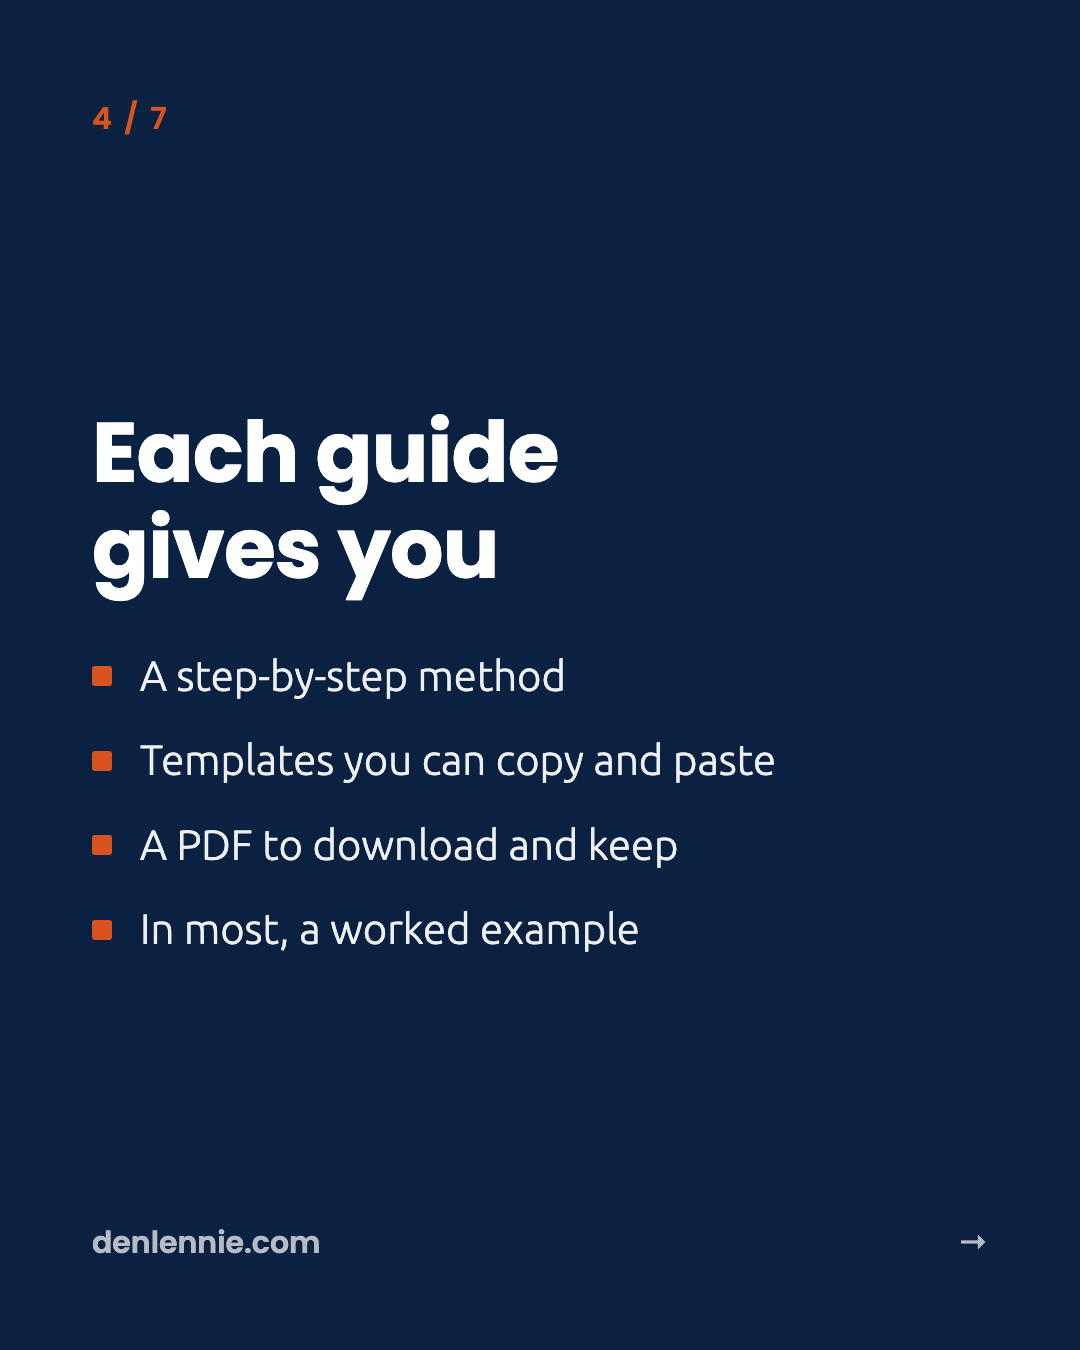
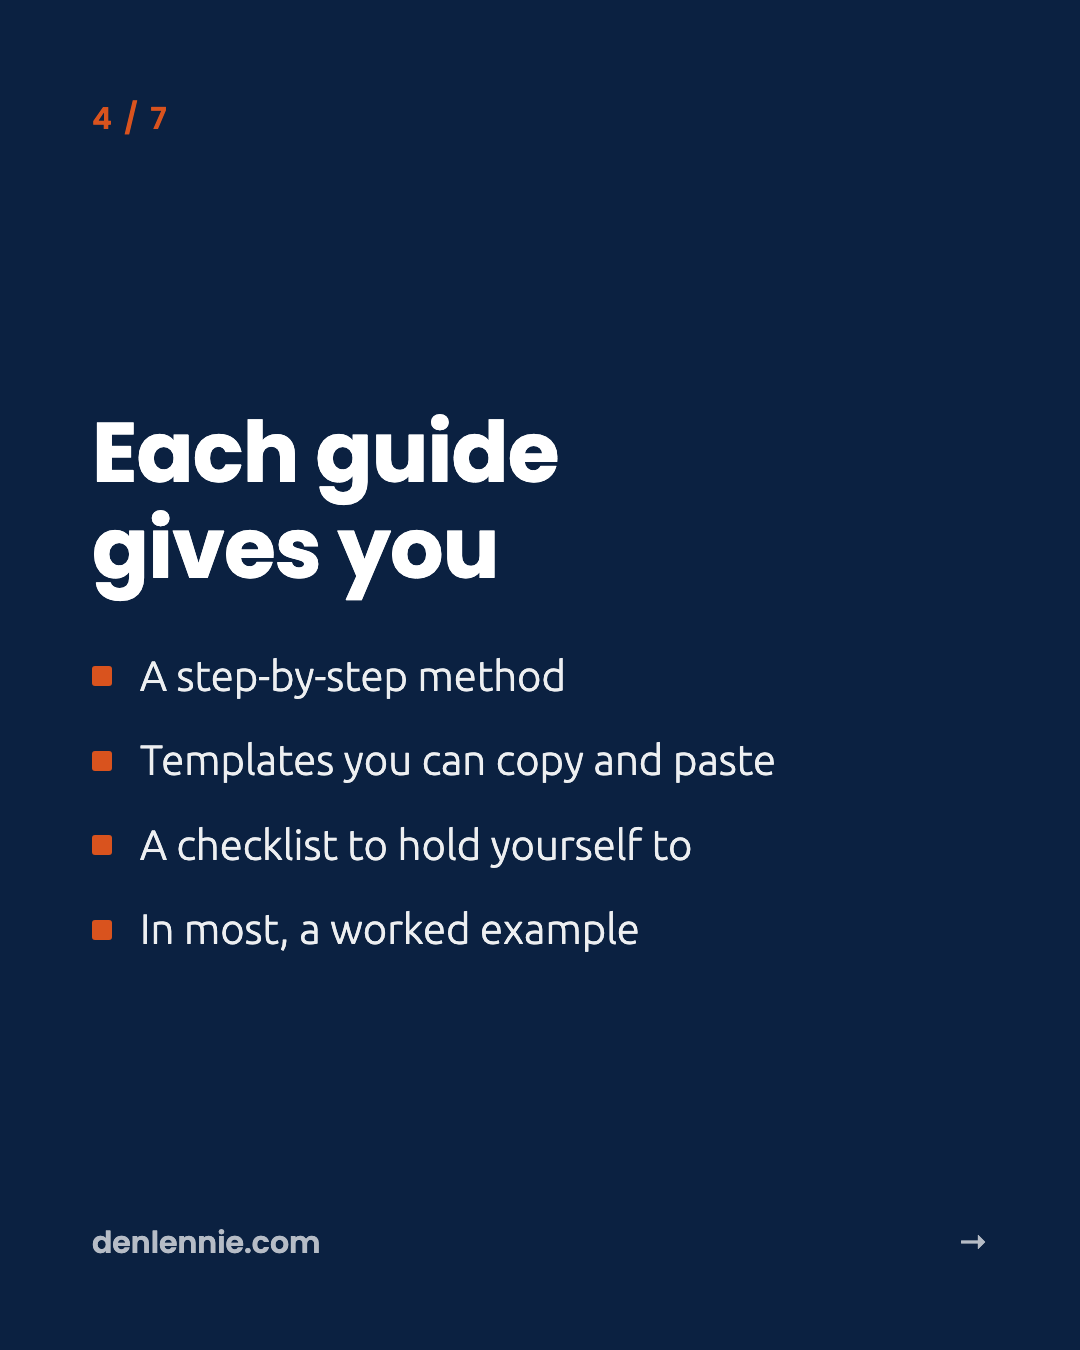
Field Guides: remove the 'Download as a PDF' links (James's advice via Den, 9 Oct 2026)
Readers use the guides on the site. llms.txt no longer says 'Downloadable PDF'. Carousel slide 4 now reads 'A checklist to hold yourself to'. Print styling stays, so a printed page still carries the branding.

Changed region(s): [[0.1528, 0.5911, 0.6417, 0.6533]]

diff --git a/qualify-before-you-pitch.html b/qualify-before-you-pitch.html
@@ -150,7 +150,6 @@ table.quote tr.total td{font-family:"Poppins",sans-serif; font-weight:600; color
 <p class="crumb"><a href="/field-guides">Field Guides</a> / Sales</p>
 <h1>How to qualify a video lead before you pitch</h1>
 <p class="lede">Don't send the showreel and wait. Before any number goes on the table, find out what the video needs to do for the business, what it costs them if it doesn't happen, who decides, when it's needed and what budget is set aside. A get-a-quote form does the first round of that for you, five questions on the first call do the rest, and then you quote the outcome instead of the footage.</p>
-<p class="download"><a href="/qualify-before-you-pitch.pdf">Download this guide as a PDF</a></p>
 <h2>Why does sending the showreel and waiting lose the job?</h2>
 <p>Sending the showreel and waiting loses because it leaves the prospect comparing reels and prices, with nothing to tell your work apart from the next reel in their inbox. You're quoting blind, so you compete on price and often pitch the wrong thing.</p>
 <p>I see the same instinct in owners working very different markets: one approaching a single target company, one working warm leads, one going after jewellery wholesalers. Each time, the first move was to send the portfolio and wait. The coaching was the same in all three: break the frame, ask a diagnostic question first, and find out what they're actually trying to solve.</p>

diff --git a/first-hire.html b/first-hire.html
@@ -152,7 +152,6 @@ table.quote tr.total td{font-family:"Poppins",sans-serif; font-weight:600; color
 <p class="crumb"><a href="/field-guides">Field Guides</a> / Team</p>
 <h1>Making your first hire in a video business: the fear, and the maths</h1>
 <p class="lede">The fear of the first hire is always the same: what if I hire someone and then the work stops? It's a fair question, but staying solo has its own cost: your income stalls at the limit of your own hours, year after year. Audit a week to find the hours that shouldn't be yours, check the profit can carry the hire through a trial period, start part-time or with a contractor, and hire to staff once contractor fees start to look like a salary.</p>
-<p class="download"><a href="/first-hire.pdf">Download this guide as a PDF</a></p>
 <h2>Why does the first hire feel so dangerous?</h2>
 <p>The first hire feels dangerous because a wage is a cost every month, and the work that pays for it isn't guaranteed.</p>
 <p>I know this one from the inside. When I ran my production company in the early 2010s, turnover sat at about £250,000 to £260,000 a year, roughly $500,000 Australian, and I finished within about ten grand of that number every year. It took me a while to see why. I was terrified of hiring anybody, and I avoided it for three years.</p>

diff --git a/content-vs-outreach.html b/content-vs-outreach.html
@@ -155,7 +155,6 @@ table.quote.split th:last-child{text-align:right;}
 <h1>Content or outreach: where to spend your marketing time</h1>
 
 <p class="lede">Many of the owners I coach over-engineer their content and under-execute their outreach: hours on the bio and the posting plan, minutes on contacting people who could hire them. If you spent more hours on content this week than the number of people you contacted, outreach is your problem. Pick one channel, run a seven-day outreach test, and judge it on the conversations it starts.</p>
-<p class="download"><a href="/content-vs-outreach.pdf">Download this guide as a PDF</a></p>
 <h2>Why do video business owners spend hours on content and minutes on outreach?</h2>
 <p>Video business owners spend hours on content because polishing a profile feels productive and safe, while contacting someone who could hire you feels exposing. The safe work is easier to start, so it gets the hours.</p>
 <p>I see it across the owners I coach. One spent hours on an Instagram bio. Another went back and forth on a LinkedIn page strategy. A third kept debating between LinkedIn connection approaches instead of trying one. The coaching was the same every time: pick one, execute, adjust from the data.</p>

diff --git a/niche-paralysis.html b/niche-paralysis.html
@@ -154,7 +154,6 @@ table.audit td{padding:.45rem .6rem; border-bottom:1px solid rgba(11,33,65,.12);
 
 <h1>How to choose a niche for your video business</h1>
 <p class="lede">You don't have a lead problem, you have a "who am I for" problem. Your niche is usually already sitting in your own numbers: the sector where your profitable, repeat work from the last twelve months clusters, chosen on fit and proof, not on imagined budget. Write it as one sentence and test it with the people it describes before you change a word on your website.</p>
-<p class="download"><a href="/niche-paralysis.pdf">Download this guide as a PDF</a></p>
 <h2>Why does "I need more leads" turn out to be a "who am I for" problem?</h2>
 <p>"I need more leads" is the symptom most owners report, and the cause usually sits upstream: nobody has decided who the business is for, so no message lands with anyone in particular. In my client avatar workshop it's the example objective on the slide: "We just need more leads."</p>
 <p>You can't market with force when you haven't decided who you're for, because nobody can see themselves in a message trying to speak to everyone. The indecision upstream caps everything downstream.</p>

diff --git a/better-systems.html b/better-systems.html
@@ -151,7 +151,6 @@ table.quote tr.total td{font-family:"Poppins",sans-serif; font-weight:600; color
 
 <h1>"I need better systems in my business": where to actually start</h1>
 <p class="lede">When an owner says they need better systems, they rarely mean software. They mean everything lives in their head, and they're the person who has to see everything. The fix isn't a new tool or the perfect system. Write down how things are done now, one process at a time, starting with one that keeps breaking. Record yourself doing a task, then turn that recording into steps someone else can run.</p>
-<p class="download"><a href="/better-systems.pdf">Download this guide as a PDF</a></p>
 <h2>Why does everything in the business still run through you?</h2>
 <p>Everything runs through you because the business grew faster than its structure. You went from freelancer to employer, skipped the step where the how gets written down, and became the bottleneck.</p>
 <p>I hear "I just need better systems" on almost every sales call. Then I ask a simple question: if you disappeared tomorrow, would the business fall over? The answer is usually yes. That's the real problem the word "systems" is covering.</p>

diff --git a/twelve-month-audit.html b/twelve-month-audit.html
@@ -157,7 +157,6 @@ table.audit th{font-family:"Poppins",sans-serif; font-weight:600; color:var(--na
 <h1>What should I look at in my last twelve months before I change anything?</h1>
 
 <p class="lede">Before you change your offer, your marketing or your niche, look at where the last twelve months of revenue came from: how many clients, what each spent, what you kept, which work repeated or came by referral, and what each client cost you in time. Then answer the other half: what you're known for and how your last five clients would describe you. Finish with one page that sorts every client against your floor per day: protect and grow the ones above it, and reprice, restructure or let go of the ones below.</p>
-<p class="download"><a href="/twelve-month-audit.pdf">Download this guide as a PDF</a></p>
 
 <h2>Why do owners change direction without looking at the last twelve months?</h2>
 <p>Owners change direction on a feeling because creative businesses lean on what they think and feel, and very little time goes into the data. A twelve-month audit puts the data first, before any new system, offer or marketing plan.</p>

diff --git a/ask-framework.html b/ask-framework.html
@@ -154,7 +154,6 @@ table.slots td{padding:.45rem .6rem; border-bottom:1px solid rgba(11,33,65,.12);
 
 <h1>How do I find out why clients really hire me?</h1>
 <p class="lede">Ask them, and record it. The ASK framework is three to five short recorded conversations with clients who already value you, five questions each, run to capture the words they use about their own problem. Sort those words into triggers, frustrations, outcomes and feelings, and they become your offer, your website copy, your outreach and your proposals.</p>
-<p class="download"><a href="/ask-framework.pdf">Download this guide as a PDF</a></p>
 <h2>Why can't most video business owners say why clients really hire them?</h2>
 <p>Most video business owners write their marketing in production language, because that's the language they think in. Buyers don't. They think about the problem in front of them, in their own words, with their own stakes attached.</p>
 <p>Most video production websites and LinkedIn profiles are about the filmmaker: their passions, their style, what they like. We do this, we do that, "we" all over everything.</p>

diff --git a/client-avatar.html b/client-avatar.html
@@ -157,7 +157,6 @@ table.compare th{font-family:"Poppins",sans-serif; font-weight:600; color:var(--
 
 <p class="lede">A client avatar is one buyer described in enough detail that you can write every quote, email and web page to that person. Build it from a real client you'd happily work for again, in 13 steps that run from who they are, through how they decide and who else has a say, to what would turn them into a fan. Build one for each type of client, starting with the clients your audit shows are worth more of.</p>
 
-<p class="download"><a href="/client-avatar.pdf">Download this guide as a PDF</a></p>
 
 <h2>Why does a pitch about selling more products miss the buyer?</h2>
 <p>A pitch about selling more products misses the buyer whenever sales aren't that buyer's main trigger. Plenty of production companies open with some version of "a video will help you sell more of your products." For a head of communications in a large organisation, getting a policy across to the internal team, or a safety briefing that brings the accident rate down, may matter far more.</p>

diff --git a/what-the-business-needs-to-make.html b/what-the-business-needs-to-make.html
@@ -164,7 +164,6 @@ table.sheet-ex tr.total td{font-family:"Poppins",sans-serif; font-weight:600; co
 
 <p class="lede">Your video business needs to make what your life costs, plus the tax on it, plus what the business costs to run. Cost the life you want and divide it by twelve for your monthly net profit target, add the tax on that profit, then add your monthly running costs with your own wage included: that's the revenue the business has to bring in each month. Then multiply each package's price by how many you can deliver in a month, and if that ceiling sits below the number, no amount of marketing will close the gap.</p>
 
-<p class="download"><a href="/what-the-business-needs-to-make.pdf">Download this guide as a PDF</a></p>
 
 <h2>Why don't most video business owners know what they need to make?</h2>
 <p>Most owners set a revenue target from what sounds good or what they did last year, not from what their life costs, and they never check it against how much work they can physically deliver. Nothing in the business tells them whether the target is reachable.</p>

diff --git a/recurring-revenue.html b/recurring-revenue.html
@@ -152,7 +152,6 @@ table.quote tr.total td{font-family:"Poppins",sans-serif; font-weight:600; color
 <h1>How to move from one-off video projects to recurring revenue</h1>
 
 <p class="lede">Project income and recurring income aren't the same business with different invoices. They're different businesses. The move is to turn a deliverable you already make into a monthly system: package it so the client never has to think about content, price it on a real cost-of-delivery model so it's profitable at the volume you're committing to, and offer it first to a client who already buys it from you. Add one recurring client, then another, and the floor under your month rises.</p>
-<p class="download"><a href="/recurring-revenue.pdf">Download this guide as a PDF</a></p>
 
 <h2>Why does every month start at zero when the work is project-based?</h2>
 <p>Project work resets every month because a project ends the day it's delivered, and nothing about it carries forward. The biggest, best project you've ever done still ends, and the day it ends you're back to hunting.</p>

diff --git a/den-lennie-books.html b/den-lennie-books.html
@@ -236,7 +236,6 @@ table.compare th{font-family:"Poppins",sans-serif; font-weight:600; color:var(--
 
 <p class="lede">Den Lennie has written five books for video business owners over more than a decade. The current one is <em>The S.C.A.L.E. Method</em> (2026), the framework behind his coaching. His first was <em>Business for Filmmakers</em> (2014). In between sit <em>30 Lies You Tell Yourself About Growing a Video Business</em>, <em>A Filmmaker's Guide to Budgets and Quotes</em> and <em>Marketing for Filmmakers Vol III</em>. <em>The S.C.A.L.E. Method</em> is at denlennie.com/book and the four earlier titles are on Amazon.</p>
 
-<p class="download"><a href="/den-lennie-books.pdf">Download this page as a PDF</a></p>
 
 <h2>What are the five books Den Lennie has written?</h2>
 <p>The five books Den Lennie has written are <em>The S.C.A.L.E. Method</em>, <em>30 Lies You Tell Yourself About Growing a Video Business</em>, <em>A Filmmaker's Guide to Budgets and Quotes</em>, <em>Marketing for Filmmakers Vol III</em> and <em>Business for Filmmakers</em>.</p>

diff --git a/imposter-syndrome.html b/imposter-syndrome.html
@@ -153,7 +153,6 @@ table.quote tr.total td{font-family:"Poppins",sans-serif; font-weight:600; color
 
 <p class="lede">Many of the tactical questions video business owners ask ("is my price right?", "am I good enough for this client?") are a request for reassurance dressed up as a practical problem. Before you go looking for another tactic, check whether you have a skills gap (no method yet) or a confidence gap (you have the method and the track record, and still want permission). A confidence gap is answered with evidence: a written file of the projects you've delivered, what clients said in their own words, repeat work, referrals and your numbers.</p>
 
-<p class="download"><a href="/imposter-syndrome.pdf">Download this guide as a PDF</a></p>
 
 <h2>Why do so many tactical questions turn out to be a request for reassurance?</h2>
 <p>Tactical questions turn into requests for reassurance because the imposter feeling rarely shows up as a feeling. It shows up as a practical question, so you go looking for a practical answer.</p>
